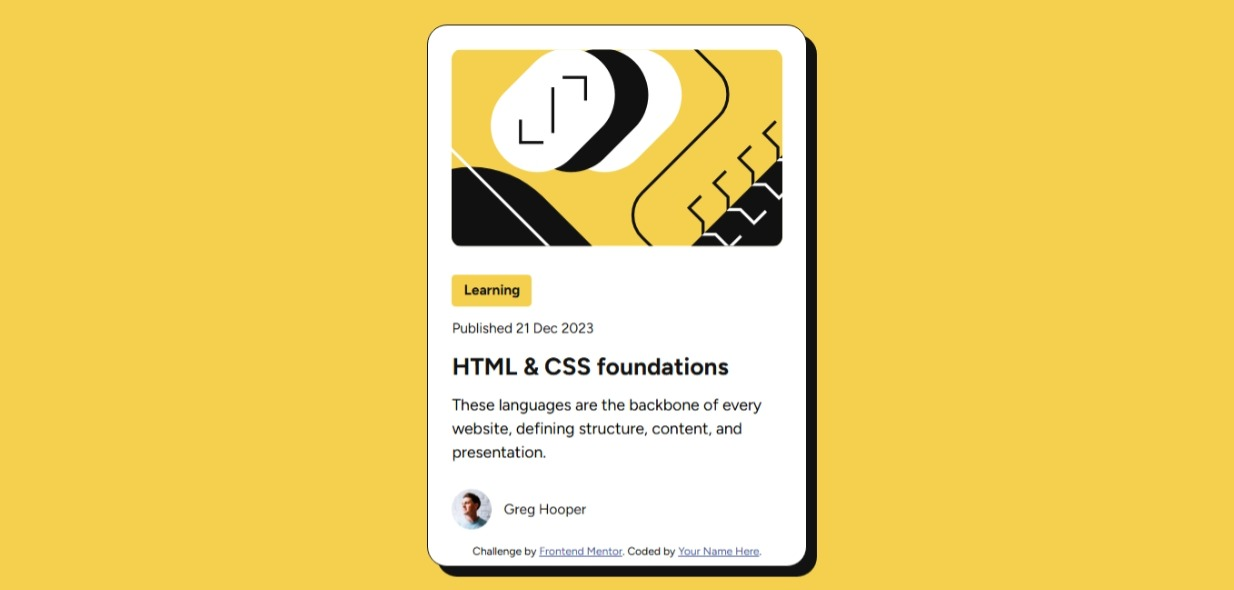
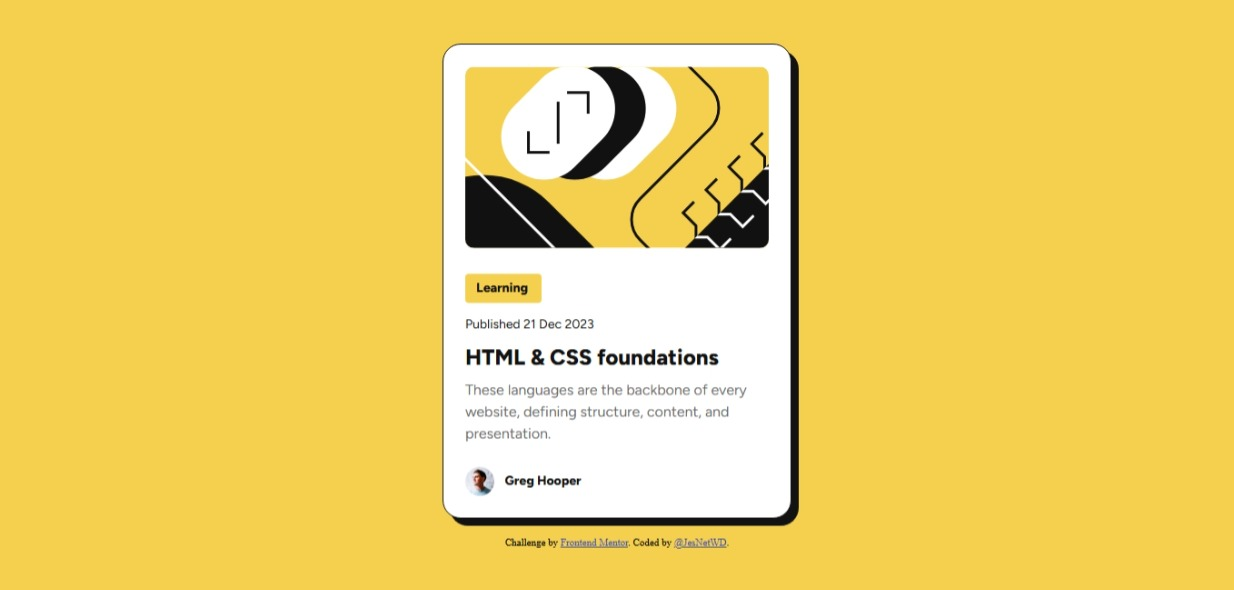
Update Changes

Changed region(s): [[0.3387, 0.0305, 0.6775, 1.0]]

diff --git a/styles.css b/styles.css
@@ -51,14 +51,6 @@ body {
   row-gap: 12px;
 }
 
-.small {
-  font-size: 14px;
-}
-
-.bold {
-  font-weight: 800;
-}
-
 .card-tag {
   width: 84px;
   background-color: var(--Yellow);
@@ -70,12 +62,20 @@ body {
   font-size: 1.5em;
 }
 
+.card-description {
+  color: var(--Gray500);
+}
+
 .dark {
   color: var(--Gray950);
 }
 
-.card-description {
-  color: var(--Gray500);
+.small {
+  font-size: 14px;
+}
+
+.bold {
+  font-weight: 800;
 }
 
 .card-avatar {
@@ -89,7 +89,8 @@ body {
   height: 2em;
 }
 
-.card h1:hover {
+.card h1:hover,
+.card h1:focus {
   color: var(--Yellow);
   cursor: pointer;
 }
